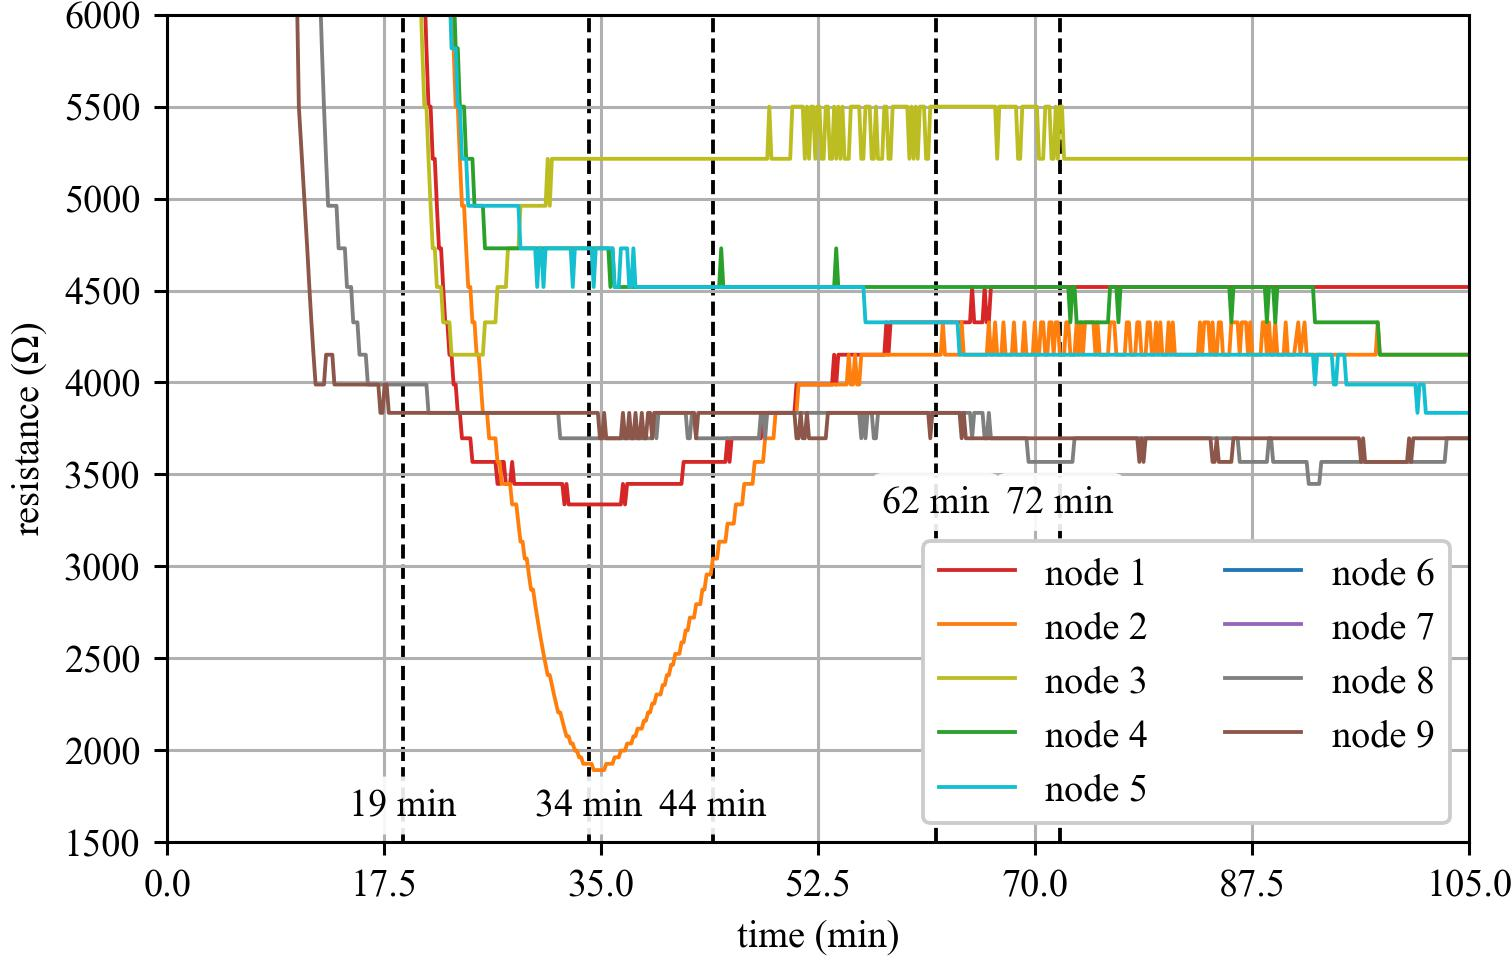
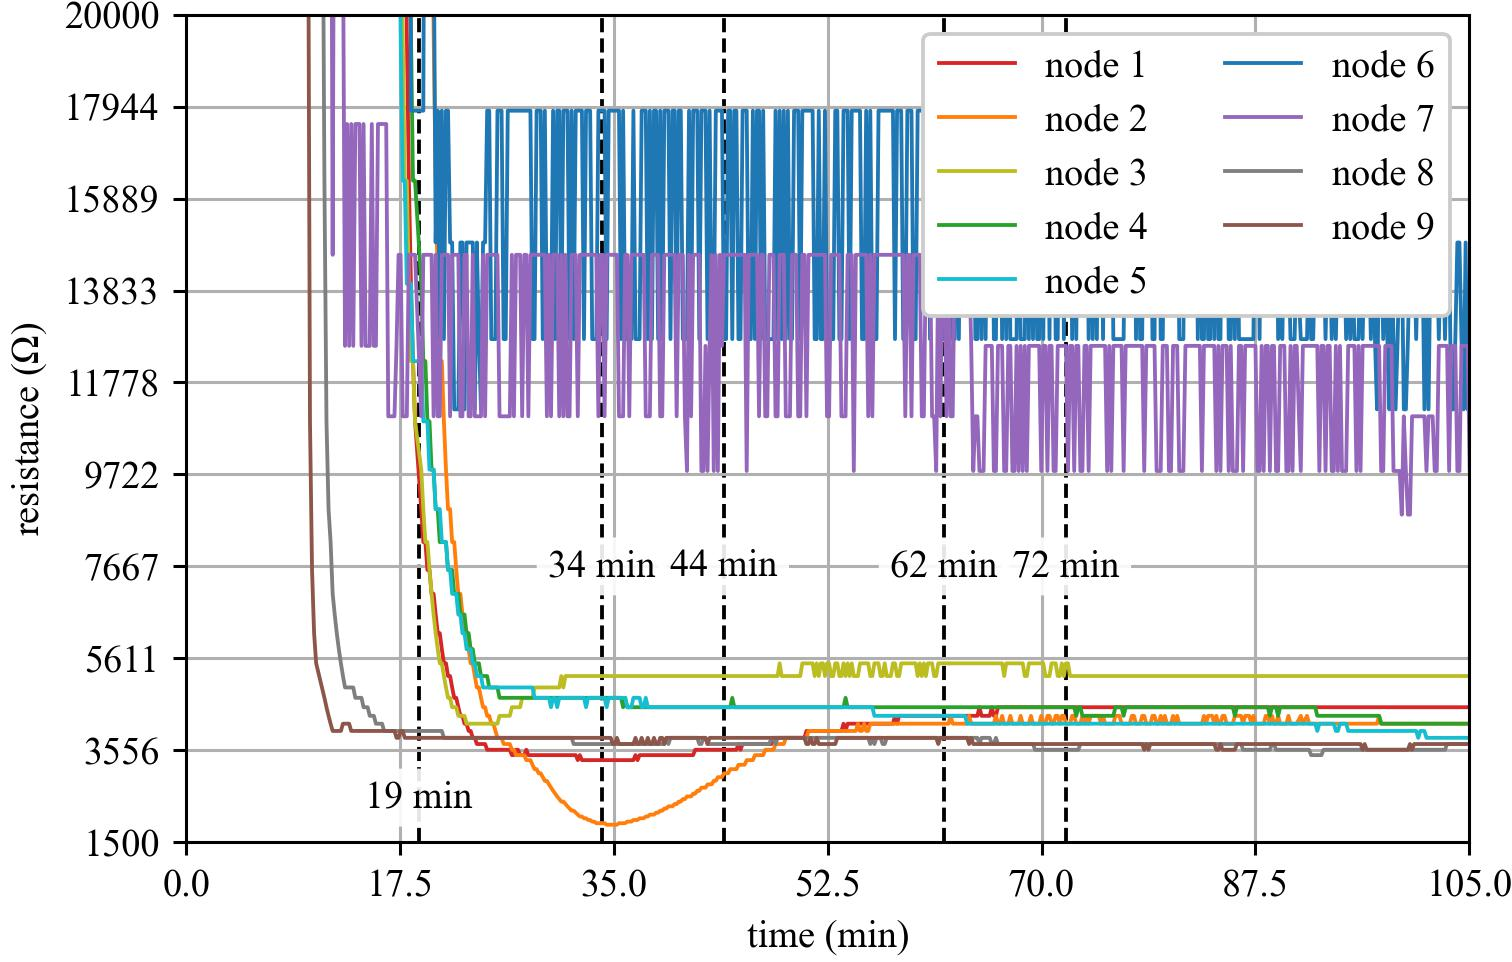
update code

diff --git a/data/dataset-1/9resistance-vs-time.py b/data/dataset-1/9resistance-vs-time.py
@@ -68,35 +68,35 @@ ax.plot(x,voltage_to_resistance(D[:,9]),label='node 9', linewidth=1, color='#8c5
 
 # timestamp lines and labels
 ax.axvline(x=19,linestyle='--',color='black',linewidth=1, zorder=0)
-ax.text(19, 1700, '19 min',
+ax.text(19, 2500, '19 min',
         va='center', ha='center', bbox=dict(
             facecolor='white',
             edgecolor='none',
             boxstyle='round,pad=0.3',
             alpha=0.9))
 ax.axvline(x=34,linestyle='--',color='black',linewidth=1, zorder=0)
-ax.text(34, 1700, '34 min',
+ax.text(34, 7667, '34 min',
         va='center', ha='center', bbox=dict(
             facecolor='white',
             edgecolor='none',
             boxstyle='round,pad=0.3',
             alpha=0.9))
 ax.axvline(x=44,linestyle='--',color='black',linewidth=1, zorder=0)
-ax.text(44, 1700, '44 min',
+ax.text(44, 7667, '44 min',
         va='center', ha='center', bbox=dict(
             facecolor='white',
             edgecolor='none',
             boxstyle='round,pad=0.3',
             alpha=0.9))
 ax.axvline(x=62,linestyle='--',color='black',linewidth=1, zorder=0)
-ax.text(62, 3350, '62 min',
+ax.text(62, 7667, '62 min',
         va='center', ha='center', bbox=dict(
             facecolor='white',
             edgecolor='none',
             boxstyle='round,pad=0.3',
             alpha=0.9))
 ax.axvline(x=72,linestyle='--',color='black',linewidth=1, zorder=0)
-ax.text(72, 3350, '72 min',
+ax.text(72, 7667, '72 min',
         va='center', ha='center', bbox=dict(
             facecolor='white',
             edgecolor='none',
@@ -104,10 +104,10 @@ ax.text(72, 3350, '72 min',
             alpha=0.9))
 
 ax.set_xlim(0,105)
-ax.set_ylim(1500, 6000)
+ax.set_ylim(1500, 20000)
 ax.autoscale(enable=False)
 ax.set_xticks(np.linspace(0,105,7))
-ax.set_yticks(np.linspace(1500,6000,10))
+ax.set_yticks(np.linspace(1500,20000,10))
 ax.tick_params(axis='both',direction='out')
 
 ax.set_ylabel(r'resistance ($\Omega$)')